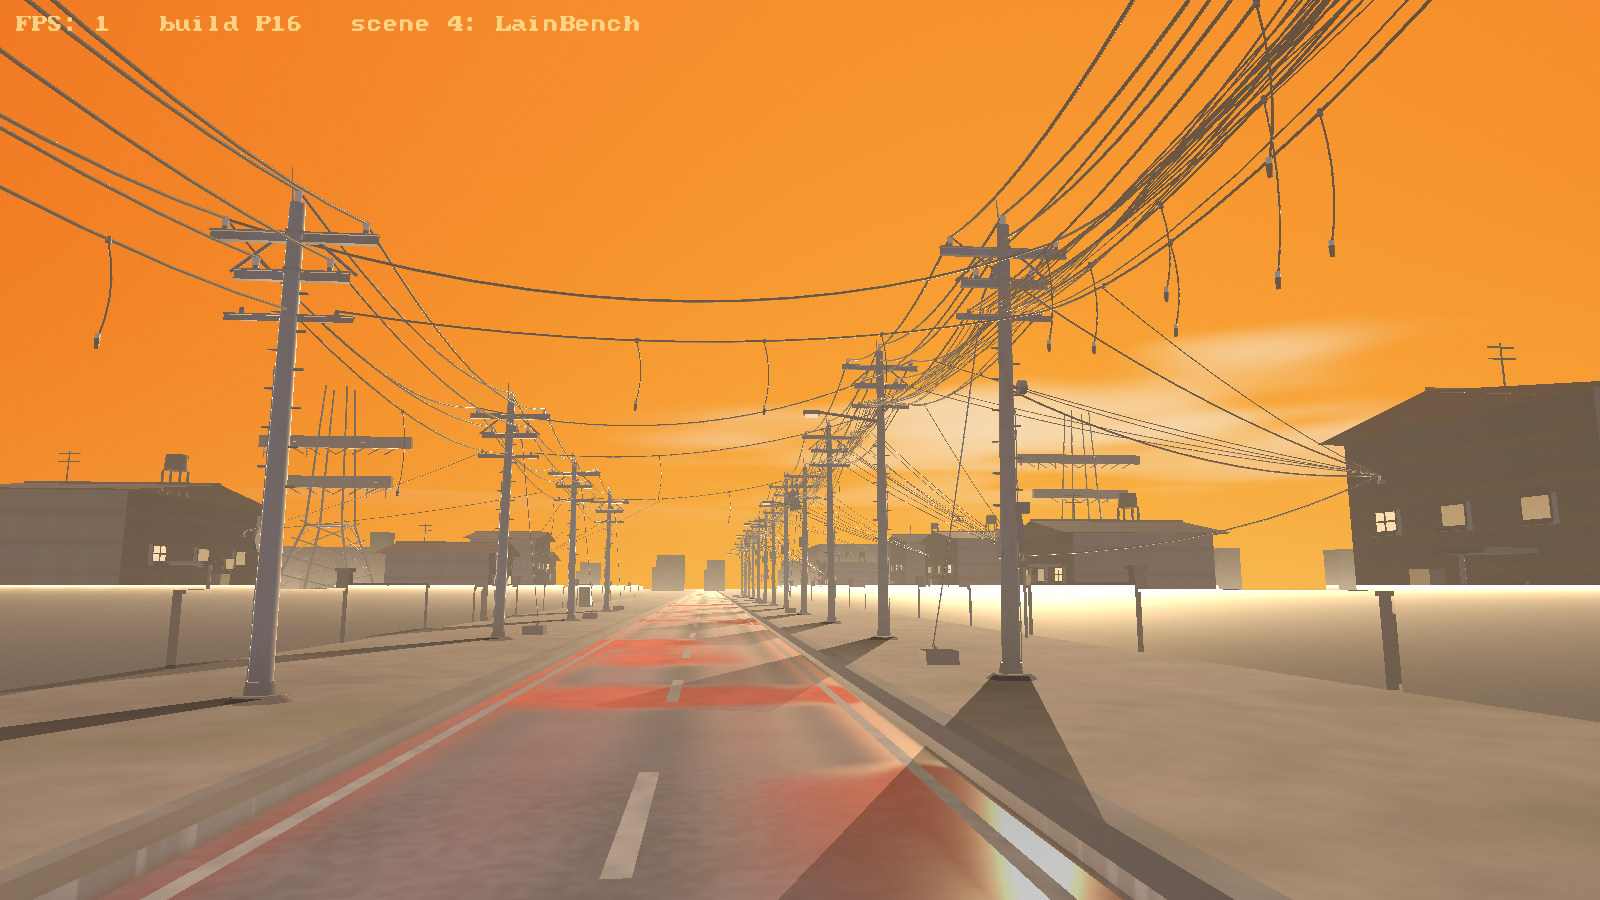
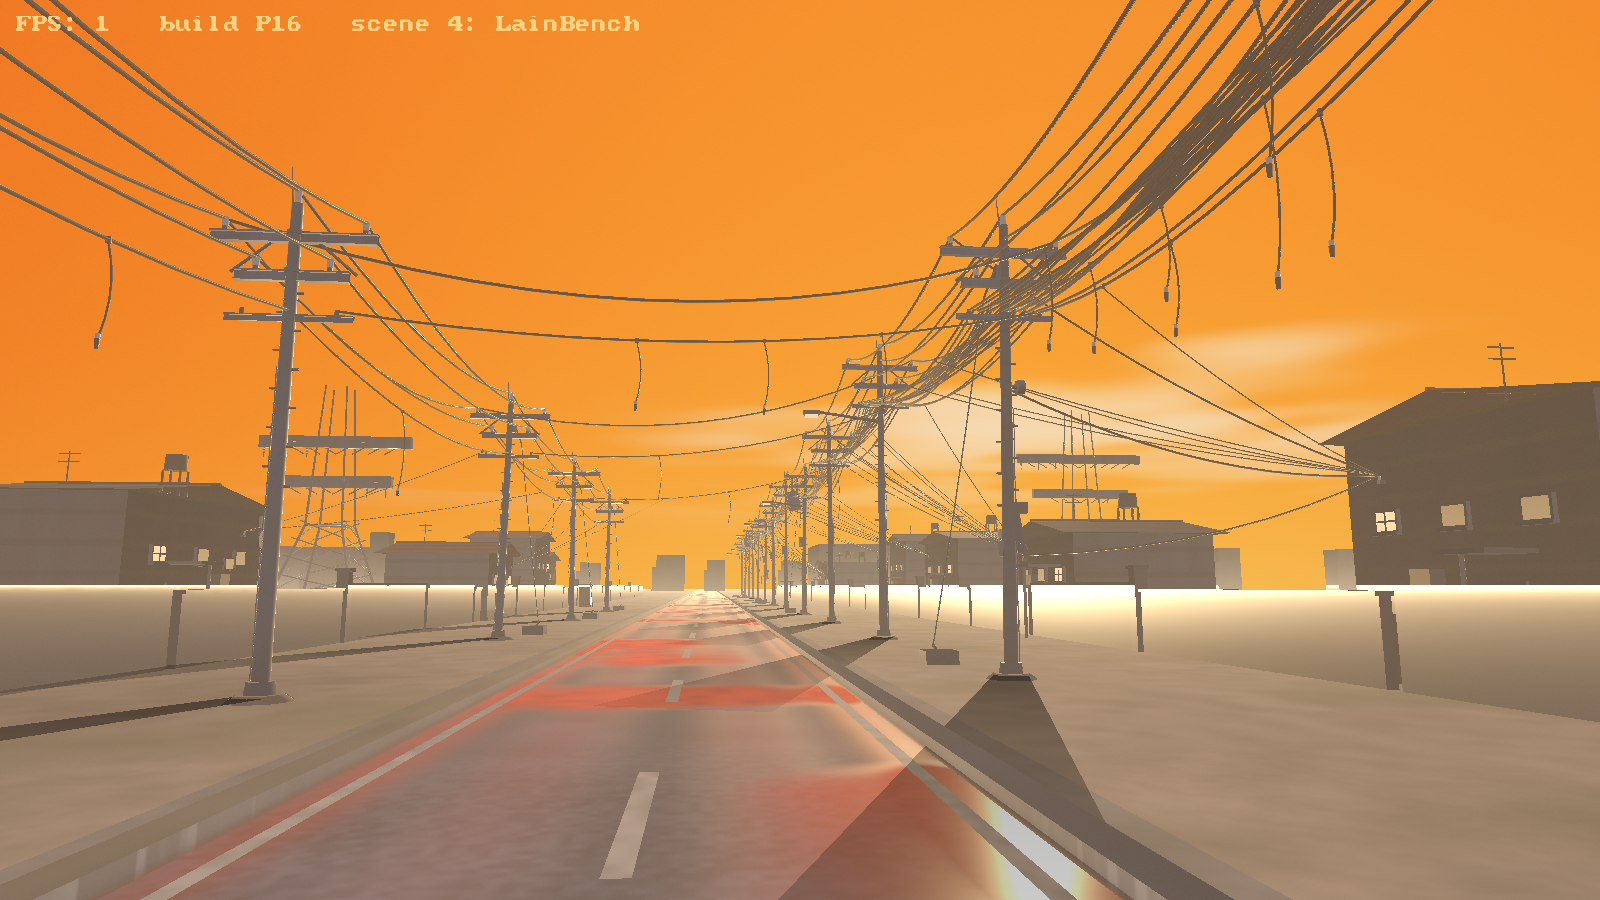
Let the wire web read and the pole shafts recede in scene 4
Both complaints turned out to be measurements rather than shading problems.
The shafts were 340 mm across at the foot, roughly 1.3x a real precast
distribution pole, and carried the scene's strongest rim and sun-wrap terms,
so they drew the eye as clean bright verticals; they are now 264 mm, darker,
neutral-cool rather than warm-biased, and the staining carries a slow octave
that survives to the far pole instead of integrating away into a flat line.

The web was never short of density -- sixteen strands a bay have been there
since P12 -- but at 10-17 mm radius they fell below the 4x-MSAA coverage
floor at 0.26-0.79 px and the aerial-perspective mix erased the rest, so the
corridor had all the cable it wanted and none of it visible. Thicker strands
and cables put 27% more cable pixels in the frame for 1.05 points of sky,
with the trapped-sky count held flat so the web stays a mesh, and the
detached-component check stays clean, so no hardware came adrift from the
thinner shaft.

diff --git a/REFERENCES.md b/REFERENCES.md
@@ -179,6 +179,94 @@ Realism takeaways applied:
   glazing bars over them. Emissive geometry is only believable if the frame behind it still exists —
   the bars and the sill are what stop a lit pane reading as a sticker.
 
+## BUILD-P18: the shafts were too fat, and the web was below a pixel
+
+Two complaints about scene 4 at once — "make the pole shafts not stand out" and
+"make the wires more evident" — and neither of them turned out to be a shading
+bug. Both were measurements.
+
+Reference framing (informational — nothing is fetched at runtime; see the
+no-runtime-fetch note under BUILD-P10):
+
+- Japanese aerial cable, why the sky stays obscured, and why the wires are
+  insulated rather than bare:
+  - https://unseen-japan.com/whats-with-the-chaos-of-japanese-power-lines/
+  - "Dense black cables are strung from utility pole to utility pole,
+    crisscrossing the areas above streets and obscuring views of the sky."
+- Pole shaft gauge — precast concrete distribution shafts run roughly
+  190-260 mm across at the base and 120-170 mm at the top; a 6" galvanized HSS
+  line is 152 mm at the base and ~110 mm at the top.
+
+- **The shafts were a TRUNK, not a pole.** `TrunkRadius` ran 170 mm at the foot
+  to 115 mm at the top: 340 mm across at the base, which is wider than the pole
+  is tall in the frame's upper half and roughly 1.3x a real shaft at every
+  height. It was also written out a second time, as a bare `0.17f, 0.115f`, in
+  `AddPole`'s `AddCylinder` call — so the taper existed twice in the file and
+  could drift apart, which is the same class of mistake as P8's duplicated
+  stand-off offsets. Both numbers now live in `kShaftRBase`/`kShaftRTop` and
+  the shaft mesh is built from them. Measured on the material tag pass at
+  1280x720, t=7: **CONCRETE 7645 -> 5681 px (-25.7%)**, STEEL 22501 -> 20299 px
+  (-9.8%; less than the shaft alone because STEEL also carries every crossarm,
+  bracket, clamp and step bolt on both lines).
+- **"Standing out" was not brightness — it was silhouette.** On the shaded frame
+  the concrete shaft's median luma is 114.5 against a local sky of 186.4: it was
+  already a *dark* vertical against a bright sky, so "darken it" was never the
+  lever. What made it read as a hard-edged line was (a) the width, (b) a
+  near-uniform value ramp that survives all the way to the horizon, and (c) the
+  strongest rim term in the scene sitting on a vertical cylinder. So: the
+  concrete staining amplitude roughly doubled and was skewed dark
+  (`0.62 + 0.52*streak` against the old `0.84 + 0.28*streak`), and a second,
+  much slower 0.35 c/m octave was added. The old streak is a 48 cm feature, so
+  past ~60 m it falls under a pixel and every distant pole integrates back into
+  one flat bright vertical; the new band is a 2.9 m feature and survives to the
+  far pole. Steel lost its rim (sheen 0.42 -> 0.24) and its sun wrap
+  (0.22 -> 0.13) — a wrap term lifts the *shadow* side of a cylinder toward the
+  light, so on a backlit shaft it is a second edge brightening stacked on top of
+  the rim, and together they meant line B was never allowed to go dark.
+- **A warm-biased grey reads as timber.** `kConcreteGrey` was
+  (0.300, 0.293, 0.278) — R above B. The dusk sun tint is (1.00, 0.66, 0.34) and
+  the grade warms highlights, so that bias compounds and the corridor reads as
+  a row of wooden sticks. It is now (0.212, 0.216, 0.218): 27% darker and
+  neutral-to-cool, so the blue channel leads.
+- **The wire web was never a density problem. It was a GAUGE problem.** Sixteen
+  strands a bay is the densest cable run in the corridor and it had been there
+  since P12 — but each strand was `0.010f + 0.007f * u3`, i.e. **10-17 mm
+  radius**. At 1280x720 and a 52-degree FOV that is 0.26 px at 60 m and 0.79 px
+  at 20 m: below the 4x-MSAA coverage floor everywhere except the nearest span,
+  where the samples quantise to 0, 1/4, 1/2, 3/4, 1 and the wire spends its
+  length flickering between a quarter-covered grey hair and nothing at all —
+  which the aerial-perspective mix then lifts toward the haze. The density the
+  scene was built for was in the geometry and absent from the image. Adding
+  more strands would only have produced a mass of them. At 21-32 mm radius
+  (42-64 mm cable, which is also the honest number for sixteen gathered
+  cross-connects) the strands hold a core. Measured: **CABLE 30730 -> 39142 px
+  (+27.4%)**, at a cost of 1.05 percentage points of frame (sky 51.05% ->
+  50.47%). Samples went 7 -> 10 as well, for P13's reason: at 2x the gauge a
+  1.77 m long segment would have started showing its joints. Every other gauge
+  in the corridor moved with it (conductors 0.024-0.032 -> 0.028-0.037, telecom
+  bundles 0.018-0.022 -> 0.022-0.027), because the conductors are what the eye
+  scales the thinner tiers against; leaving them put the web back to looking
+  like string.
+- **P16's artefact is a sky-through test, and it was re-run, not assumed.** The
+  guard was "does the web still let the sky through?", measured by labelling
+  the sky and counting trapped holes: **1343 -> 1163 trapped sky components,
+  145274 -> 146474 px of trapped sky (flat), largest single hole 17941 ->
+  14512**. Total trapped sky unchanged is the number that matters — a fused
+  wall would collapse it. The web is a slightly coarser mesh, not a wall.
+- **Thinning the shaft detached nothing.** Every fitting already measures its
+  stand-off off `TrunkRadius`, which is the reason P8 made it a function. The
+  regression pass ran the P16/P17 detached-component check on both binaries:
+  detached components >= 8 px **73 -> 53**, detached pixels **4367 -> 3180**,
+  and every remaining blob is still `CABLE` — 1-px wire runs that drop out of
+  the tag mask between two crossings, not floating geometry. No METAL, CERAMIC,
+  STEEL or CONCRETE blob appeared. Step bolts dropped from 140 mm of stand-off
+  to 100 mm, which was the one offset sized against the old shaft.
+- **A cable is smooth black PE, not a matte hose** — roughness 0.42 -> 0.33 and
+  a touch more sheen, so each span carries a warm filament down its sun-raked
+  side. Deliberately modest: `rim` scales with `1 - NoV`, and on a 2 px strand
+  nearly every fragment is an edge, so an aggressive sheen would lighten the
+  whole cable and cost it exactly the silhouette contrast that made it read.
+
 ## BUILD-P17: the flying cylinders were a tube with no radius
 
 - **The artefact was real, small, and in every frame — and it was NOT the
